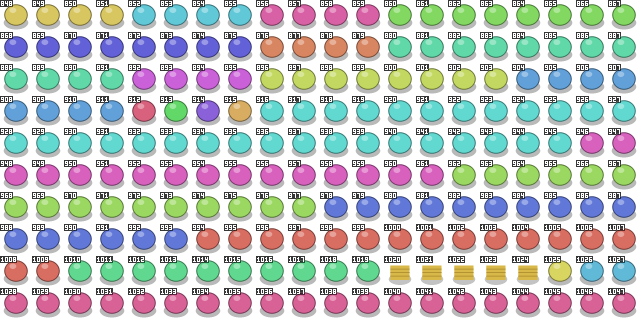
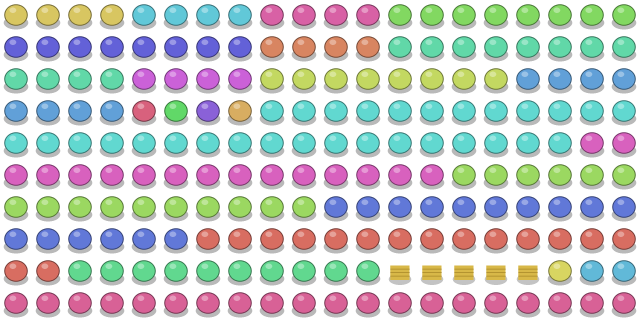
Clean placeholder pack, tool and category buttons, a field in the interface test
- The placeholder pack's tiles no longer carry their numbers (--labels brings them
  back, for artists), so the game looks like a farm.
- The editor palette's 12 tool icons are labelled with the engine's tool names, and
  PLANT and SPRAY get the corn and barrel pictures they borrow from the BUY
  window; the BUY and SELL windows show the category buttons and arrows the
  engine reads clicks in (regions found in their click handlers).
- tools/packplay.script now also picks Corn from the PLANT list and makes a field
  (expect fields_atleast), and the runner fixes the world seeds. The region screen's
  world honours OSF_WORLDSEED too: with a time-based seed the fixed click spots
  sometimes landed on a rock and the test failed one run in three; it now passes
  every time.
- expect fields_atleast, machines_atleast and structures_atleast.

diff --git a/engine/tools/make_placeholder_pack.py b/engine/tools/make_placeholder_pack.py
@@ -2,7 +2,7 @@
 """Makes OpenSimFarm's placeholder tile pack: full-colour, flat vector-style tiles at any size from 8 to 128 px,
 drawn from nothing but the engine's own tile tables (nothing of the original game is read or copied).
 
-    python3 engine/tools/make_placeholder_pack.py [--size 32] [--out engine/packs/placeholder] [--no-labels]
+    python3 engine/tools/make_placeholder_pack.py [--size 32] [--out engine/packs/placeholder] [--labels]
 
 Every one of the 848 plain, 200 masked and 105 event tiles is made, in the PNG-sheet format of
 engine/TRUECOLOUR.md, and so are placeholder pictures for the interface (windows, buttons, gauges, sprites, the
@@ -10,8 +10,8 @@ full-screen pictures), at 2 pixels per interface unit (--no-pictures leaves them
 (climate, region map, town layout, message texts, item texts, overview colours; --no-tables leaves them out) and the
 interface theme (16 RGB colours) and the weather look (a veil for rain and for frost), and the template farm (the item catalogue every new world starts from) and 24 crops with their pictures, the sound effects, and the Farm Expert's help cards. The families the engine knows by name (ground, water, ditches, roads, fences, gates, trees,
 rocks, bridges, crop pictures, event grounds) are drawn as what they are, connected pieces with the right arms; every
-other tile is coloured by the tile family it belongs to. Each tile carries its number (--no-labels leaves them off),
-so the pack doubles as a map of what the engine uses where. Needs Pillow (pip install pillow).
+other tile is coloured by the tile family it belongs to. With --labels each tile carries its number, so the pack
+doubles as a map of what the engine uses where (the shipped pack is without, to play). Needs Pillow (pip install pillow).
 """
 import argparse
 import colorsys
@@ -477,6 +477,14 @@ def text_centre(d, box, text, px, fill):
 SRC = os.path.join(os.path.dirname(os.path.abspath(__file__)), "..", "src")
 
 
+# Regions of window pictures that the engine reads clicks in but nowhere names as a button (found in the click handlers of
+# Windows.cpp: BuyWindow, SellWindow): (x, y, w, h, label).
+EXTRA_BUTTONS = {
+    "buywndo.bmp": [(11, 7 + 30 * c, 27, 27, t) for c, t in enumerate(("MACH", "SEED", "LIVE", "BLDG", "SPLY"))] + [(177, 73, 26, 26, "^"), (208, 73, 26, 26, "v")],
+    "sellwndo.bmp": [(17, 3 + 30 * c, 27, 27, t) for c, t in enumerate(("CROP", "MACH", "LIVE"))] + [(16, 96, 16, 16, "^"), (16, 176, 16, 16, "v")],
+}
+
+
 def read_src(*parts):
     path = os.path.join(SRC, *parts)
     if not os.path.exists(path):
@@ -512,6 +520,9 @@ def source_layout():
             if text.startswith(prefix):
                 text, kind = text[len(prefix):], k
         add(pic, kind=kind, x=int(x), y=int(y), w=int(room), h=8, text=text, align=int(align), lines=int(lines), lh=int(lh), wrap=int(wrap))
+    for pic, buttons in EXTRA_BUTTONS.items():
+        for x, y, w, h, text in buttons:
+            add(pic, kind="button", x=x, y=y, w=w, h=h, text=text, align=1, lines=1, lh=8, wrap=0, exact=True, small=len(text) > 1)
     windows = read_src("ui", "Windows.cpp")
     found = list(WINDOW_RE.finditer(windows))
     for i, m in enumerate(found):
@@ -582,7 +593,8 @@ def draw_layout(d, k, items):
             else:  # the label sits inside its button
                 bx, by, bw, bh = it["x"] - 4, it["y"] - 6, it["w"] + 8, 20
             face_rect(d, bx, by, bw, bh, k)
-            put_text(d, k, it["text"], bx, by + (bh - 8) // 2, bw, 1)
+            px = 6 if it.get("small") else 8
+            put_text(d, k, it["text"], bx, by + (bh - px) // 2 + (3 if it.get("small") and bh > 20 else 0), bw, 1, px=px)
         elif it["kind"] == "gauge":
             put_text(d, k, it["text"], it["x"], it["y"], it["w"], 1, px=7)
         else:
@@ -603,6 +615,14 @@ def panel(w, h, name, tint, items=()):
     if h >= 64 and not items:
         text_centre(d, (0, 4 * k, w * k, 20 * k), f"{name}  {w} x {h}", 9 * k, (0x20, 0x20, 0x20, 255))
     draw_layout(d, k, items)
+    if name == "buywndo.bmp":
+        # the two small pictures the editor's PLANT and SPRAY buttons are cut from (16 x 16 at 16, 42 and 18 x 18 at 15, 131):
+        # a framed ear of corn and a barrel
+        d.rectangle([16 * k, 42 * k, 32 * k - 1, 58 * k - 1], fill=(0x3C, 0x9A, 0x3A, 255), outline=(0, 0, 0, 255), width=k)
+        d.ellipse([21 * k, 44 * k, 27 * k, 56 * k], fill=(0xF0, 0xD0, 0x40, 255))
+        d.rectangle([15 * k, 131 * k, 33 * k - 1, 149 * k - 1], fill=(0x80, 0x50, 0x2A, 255), outline=(0, 0, 0, 255), width=k)
+        for yy in (136, 144):
+            d.line([(15 * k, yy * k), (33 * k - 1, yy * k)], fill=(0x40, 0x40, 0x48, 255), width=k)
     return img, d
 
 
@@ -623,15 +643,20 @@ def toolbar():
     return img
 
 
+TOOL_ICONS = ["Move", "Exam", "Road", "Dirt", "Fence", "Gate", "Ditch", "Valve", "Feed", "Trough", "Trees", "Doze"]  # GameUi's kToolNames
+
+
 def editeasy():
+    """editeasy.lzs: the editor palette's 12 tool icons, 24 x 24 each in two columns of six, in the order of the engine's
+    kToolNames (Move, Examine, Paved Road, Dirt Road, Fence, Gate, Ditch, Valve, Feed, Trough, Trees, Bulldoze)."""
     w, h = EDITEASY
     k = PIC_SCALE
     img = Image.new("RGBA", (w * k, h * k), (0xC0, 0xC0, 0xC0, 255))
     d = ImageDraw.Draw(img)
-    for i in range(16):
+    for i, name in enumerate(TOOL_ICONS):
         x, y = (i % 2) * 24 * k, (i // 2) * 24 * k
-        d.rectangle([x + k, y + k, x + 23 * k, y + 23 * k], fill=band_colour(i * 7, 0.4, 0.9) + (255,), outline=(0x30, 0x30, 0x30, 255), width=k)
-        text_centre(d, (x, y, x + 24 * k, y + 24 * k), str(i), 9 * k, (0x20, 0x20, 0x20, 255))
+        d.rectangle([x, y, x + 24 * k - 1, y + 24 * k - 1], fill=band_colour((i // 2) * 11 + 3, 0.35, 0.92) + (255,), outline=(0x30, 0x30, 0x30, 255), width=k)
+        put_text(d, k, name, x // k, y // k + 8, 24, 1, px=6)
     return img
 
 
@@ -1303,7 +1328,7 @@ def main():
     ap = argparse.ArgumentParser(description=__doc__, formatter_class=argparse.RawDescriptionHelpFormatter)
     ap.add_argument("--size", type=int, default=32, help="pixels a tile, 8..128 (default 32)")
     ap.add_argument("--out", default=os.path.join(os.path.dirname(os.path.abspath(__file__)), "..", "packs", "placeholder"))
-    ap.add_argument("--no-labels", action="store_true", help="leave the tile numbers off")
+    ap.add_argument("--labels", action="store_true", help="print each tile's number on it, for artists (the shipped pack is clean)")
     ap.add_argument("--no-pictures", action="store_true", help="leave the interface pictures out")
     ap.add_argument("--no-tables", action="store_true", help="leave the data tables out")
     ap.add_argument("--no-sounds", action="store_true", help="leave the sound effects out")
@@ -1311,7 +1336,7 @@ def main():
     if not 8 <= a.size <= 128:
         sys.exit("--size must be from 8 to 128")
     os.makedirs(a.out, exist_ok=True)
-    plain, masked, events = build(a.size, not a.no_labels)
+    plain, masked, events = build(a.size, a.labels)
     sheet(plain, PLAIN_COLS, a.size).save(os.path.join(a.out, "plain.png"), optimize=True)
     sheet(masked, MASKED_COLS, a.size).save(os.path.join(a.out, "masked.png"), optimize=True)
     sheet(events, EVENT_COLS, a.size).save(os.path.join(a.out, "events.png"), optimize=True)

diff --git a/engine/src/main.cpp b/engine/src/main.cpp
@@ -2673,7 +2673,8 @@ static WeatherLook g_weatherLook = DefaultWeatherLook(); // how rain and frost l
 // starts a comment. Commands: click X Y, rclick X Y, move X Y (window pixels), key NAME (SDL key names: Return, Escape, F1,
 // Space, a ...), shot FILE (the next frame is saved as a bitmap), quit, and expectations that fail the run (a message on
 // stderr and exit code 1) when the game is not as said: expect cash N, expect game | start (in a game, or still on the start
-// screens), expect machines N | structures N | animals N | fields N, expect open WINDOWID.
+// screens), expect machines N | structures N | animals N | fields N (also fields_atleast N, machines_atleast N, structures_atleast N),
+// expect open WINDOWID.
 struct InputScript
 {
     struct Command
@@ -4555,7 +4556,11 @@ int main(int argc, char** argv)
             if (atStart || !state)
                 return "not in a game";
             auto is = [&](long long have) { return have == v ? std::string() : "it is " + std::to_string(have); };
+            auto atLeast = [&](long long have) { return have >= v ? std::string() : "it is " + std::to_string(have); };
             if (what == "cash") return is(state->cash);
+            if (what == "fields_atleast") return atLeast(state->fieldCount);
+            if (what == "machines_atleast") return atLeast(state->machineCount);
+            if (what == "structures_atleast") return atLeast(state->structureCount);
             if (what == "machines") return is(state->machineCount);
             if (what == "structures") return is(state->structureCount);
             if (what == "animals") return is(state->animalCount);

diff --git a/engine/src/ui/StartScreen.cpp b/engine/src/ui/StartScreen.cpp
@@ -13,6 +13,7 @@
 #include <algorithm>
 #include <cctype>
 #include <cmath>
+#include <cstdlib>
 #include <filesystem>
 
 namespace osf {
@@ -231,6 +232,8 @@ void StartScreen::Generate(bool byButton)
     if (!LoadTemplateState(*mega, _gameDir, _template, _note)) // (a pack's template farm, else SCEN0.SSM)
         return;
     _opt.seed = static_cast<unsigned>(SDL_GetTicks()) * 2654435761u + 7u;
+    if (const char* fixed = std::getenv("OSF_WORLDSEED")) // a test run's fixed seed (the first farm of --pack honours it too)
+        _opt.seed = static_cast<unsigned>(std::atoi(fixed));
     std::string err;
     // the ground shade term: the design screen's GENERATE WORLD sets it to rainfall x 4 first (live:
     // rainfall 0 gave the driest ground 15-17); entering the screen and Use This Region keep the live soil

diff --git a/engine/TRUECOLOUR.md b/engine/TRUECOLOUR.md
@@ -347,7 +347,7 @@ harvests for at least 8,000, keep its soil neither soaked nor parched, and not w
 ## The placeholder pack
 
 `packs/placeholder/` is a complete pack at 32 px, made by `tools/make_placeholder_pack.py` (Python and Pillow; one
-second; `--size 8..128`, `--no-labels`). It is drawn from nothing but the engine's own tile tables, so it needs and
+second; `--size 8..128`, `--labels`). It is drawn from nothing but the engine's own tile tables, so it needs and
 contains nothing of the original game:
 
 * Families the engine names are drawn as what they are: the ground ramp (15..30, dry to wet), water with sandy shore
@@ -357,7 +357,8 @@ contains nothing of the original game:
 * Connected pieces (roads, fences, ditches) have the right arms: the piece number 0..10 is the engine's neighbour-mask
   shape (`kShape` in `game/Editing.cpp`).
 * Every other tile is coloured by the tile family it belongs to (`FamilyStart` in `game/Shop.cpp`), so a family is
-  recognisable at a glance, and every tile carries its number: the pack is a map of what the engine uses where.
+  recognisable at a glance. With `--labels` (not in the shipped pack, which is clean to play) every tile also carries its
+  number: the pack is then a map of what the engine uses where, for an artist.
 * The interface pictures are blank panels at the sizes the engine expects (`ArchivePictureTest` in `main.cpp`): the 18
   windows with their file name and size, the toolbar with a ruler every 32 units (where the interface cuts it), the
   editor's icons and the button, gauge and weather-vane faces numbered, four full-screen pictures, and numbered
@@ -450,10 +451,13 @@ card of plain advice with a way back.
 
 `tools/packplay_test.sh [program] [pack]` plays a game from a pack alone, through the interface, with no display and no
 person (`SDL_VIDEODRIVER=dummy`), using the input script `tools/packplay.script`: it starts the program, clicks through
-the intro and the title, plays the placeholder region, opens BUY, buys a tractor and clicks it onto the farm, and opens the
-Farm Expert from the Windows menu. The script checks the game as it goes with `expect` lines (`expect cash 34000`,
+the intro and the title, plays the placeholder region, opens BUY, buys a tractor and clicks it onto the farm, picks Corn
+from the PLANT list and makes a field, and opens the Farm Expert from the Windows menu. The script checks the game as it goes with `expect` lines (`expect cash 34000`,
 `expect machines 1`, `expect open 6`, ...); a check that fails prints what is wrong and the program ends with exit code 1.
-The input script and its expectations are described under Playing with a pack alone.
+The input script and its expectations are described under Playing with a pack alone. The runner fixes `OSF_WORLDSEED=7`
+(the first farm and the region screen's world) and `OSF_SEED=7` (the game's own chances), so that the world is the same
+every run and the clicks fit it; with a time-based seed the script failed one run in three, because its fixed click spots
+sometimes landed on a rock.
 
 The earlier tests check the parts: `--tilepacktest`, `--tablestest [pack]`, `--templatetest [pack]`, `--cropstest [pack]`.
 
